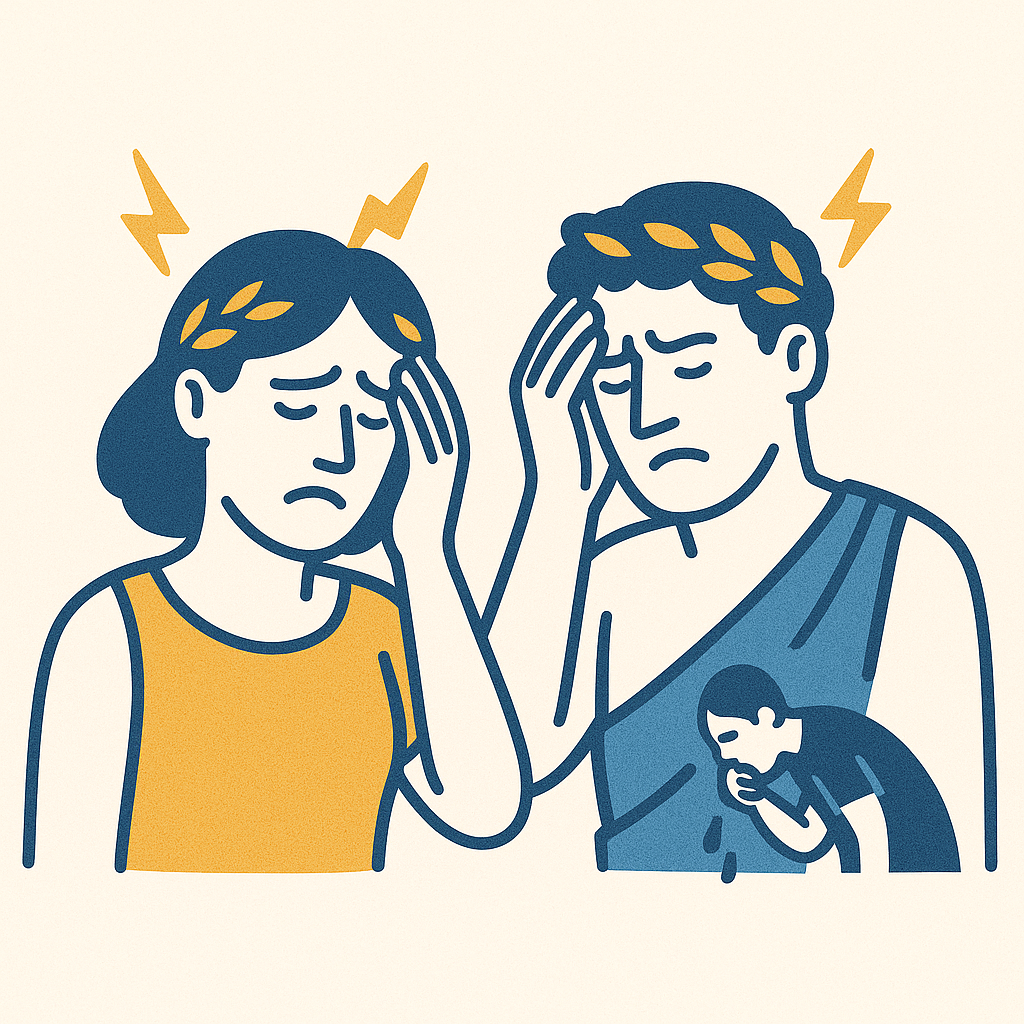
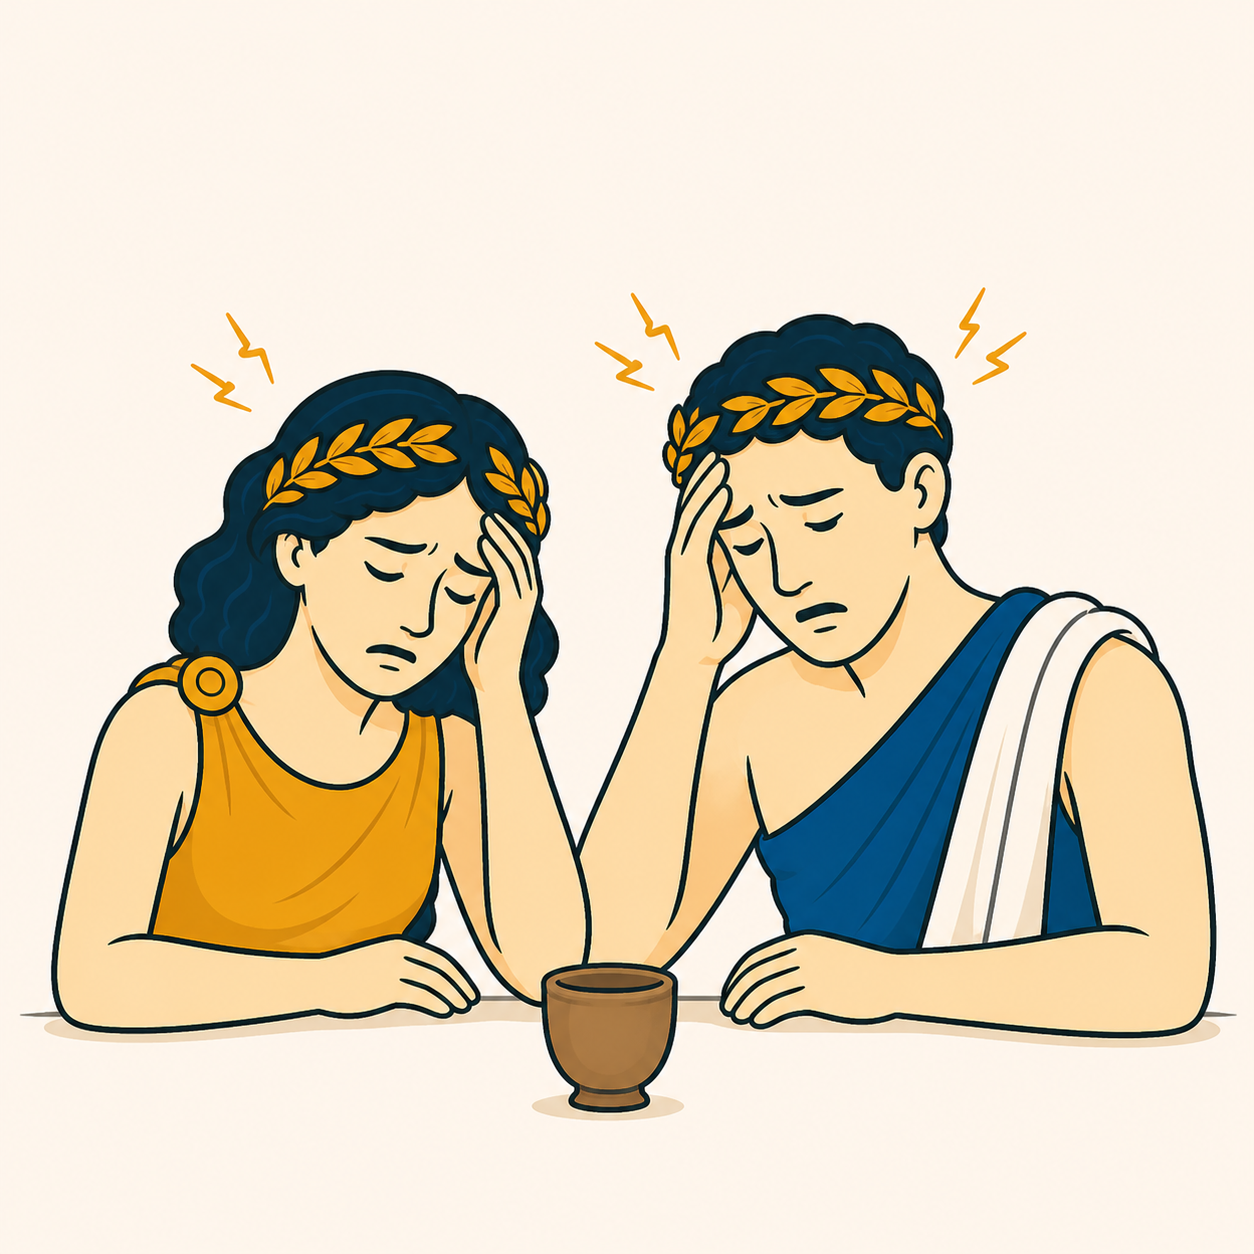
feat: refresh homepage app imagery

diff --git a/index.html b/index.html
@@ -10,7 +10,7 @@
     <!-- Resource Hints for Performance -->
     <!-- Preload Critical Resources -->
     <link rel="preload" href="/styles.css" as="style">
-    <link rel="preload" href="/assets/slide3_roman_phone.png" as="image">
+    <link rel="preload" href="/assets/app-mindrink-way.png" as="image">
     <!-- Favicons -->
     <link rel="icon" type="image/png" sizes="256x256" href="/assets/favicons/favicon-256x256.png">
     <link rel="icon" type="image/png" sizes="512x512" href="/assets/favicons/favicon-512x512.png">
@@ -22,12 +22,12 @@
     <meta property="og:url" content="https://mindrink.me/">
     <meta property="og:title" content="Mindrink - Mindful Drinking App">
     <meta property="og:description" content="Mindrink helps you track drinking habits mindfully, understand patterns, and make balanced choices while still enjoying social moments.">
-    <meta property="og:image" content="https://mindrink.me/assets/slide3_roman_phone.png">
-    <meta property="og:image:secure_url" content="https://mindrink.me/assets/slide3_roman_phone.png">
+    <meta property="og:image" content="https://mindrink.me/assets/app-mindrink-way-social.png">
+    <meta property="og:image:secure_url" content="https://mindrink.me/assets/app-mindrink-way-social.png">
     <meta property="og:image:type" content="image/png">
-    <meta property="og:image:width" content="1024">
-    <meta property="og:image:height" content="1024">
-    <meta property="og:image:alt" content="Mindrink app helping you enjoy drinking mindfully">
+    <meta property="og:image:width" content="1200">
+    <meta property="og:image:height" content="630">
+    <meta property="og:image:alt" content="People using a mindful drinking app to track alcohol habits in a social moment">
     <meta property="og:site_name" content="Mindrink">
     <meta property="og:locale" content="en_US">
     <meta property="og:locale:alternate" content="fr_FR">
@@ -54,8 +54,8 @@
     <meta name="twitter:url" content="https://mindrink.me/">
     <meta name="twitter:title" content="Mindrink - Mindful Drinking App">
     <meta name="twitter:description" content="Mindrink helps you track drinking habits mindfully, understand patterns, and make balanced choices while still enjoying social moments.">
-    <meta name="twitter:image" content="https://mindrink.me/assets/slide3_roman_phone.png">
-    <meta name="twitter:image:alt" content="Mindrink app helping you enjoy drinking mindfully">
+    <meta name="twitter:image" content="https://mindrink.me/assets/app-mindrink-way-social.png">
+    <meta name="twitter:image:alt" content="People using a mindful drinking app to track alcohol habits in a social moment">
     <link rel="stylesheet" href="/styles.css">
     <!-- Force HTTPS redirect -->
     <script defer>
@@ -173,7 +173,7 @@
                 </div>
             </div>
             <div class="hero-illustration">
-                <img src="/assets/slide3_roman_phone.png" alt="Roman character finding balance with phone" class="hero-img" width="600" height="600" loading="eager" fetchpriority="high">
+                <img src="/assets/app-mindrink-way.png" alt="People using a mindful drinking app to track alcohol habits in a social moment" class="hero-img" width="700" height="560" loading="eager" fetchpriority="high">
             </div>
         </div>
     </section>
